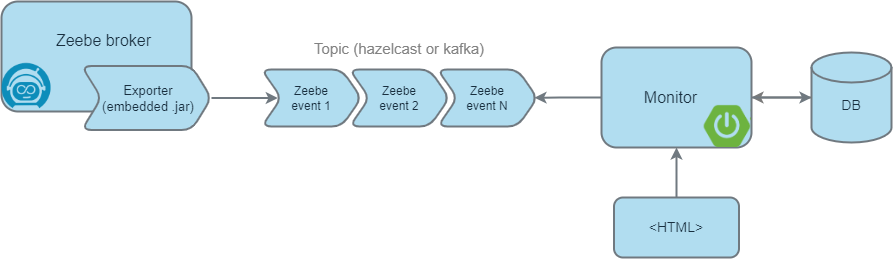
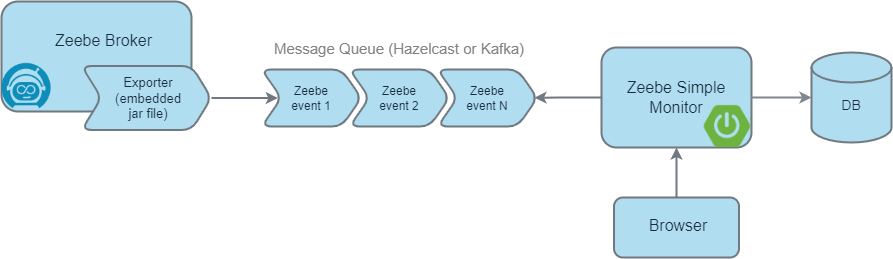
feat: add kafka importer as option (add profiles for kafka and hazelcast, fix schema)

diff --git a/README.md b/README.md
@@ -67,16 +67,28 @@ docker run --network="host" ghcr.io/camunda-community-hub/zeebe-simple-monitor:2
 ```
 
 For a local setup, the repository contains a [docker-compose file](docker/docker-compose.yml). It starts a Zeebe broker with the Hazelcast/Kafka exporter and the application. 
+There are several Docker Compose profiles, setting by a file [.env](docker/.env), by passing multiple --profile flags or a comma-separated list for the COMPOSE_PROFILES environment variable:
+* ```docker compose --profile hazelcast --profile hazelcast_in_memory up```
+* ```COMPOSE_PROFILES=hazelcast,hazelcast_in_memory docker compose up```
 
+Existing presets:
+* ```COMPOSE_PROFILES=hazelcast,hazelcast_in_memory``` (by default)
+* ```COMPOSE_PROFILES=kafka,kafka_in_memory```
+* ```COMPOSE_PROFILES=hazelcast,hazelcast_postgres,postgres```
+* ```COMPOSE_PROFILES=hazelcast,hazelcast_mysql,mysql```
+
+The commands to build and run:
 ```
 mvn clean install -DskipTests
 cd docker
-docker-compose --profile in-memory up
+docker-compose up
 ```
 
 Go to http://localhost:8082
 
-To use PostgreSQL instead of the in-memory database, use the profile `postgres`. 
+To change the database see "[Change the Database](#change-the-database)"
+
+To change Zeebe importer see "[Change the default Zeebe importer to Kafka](#change-the-default-zeebe-importer-to-kafka)"
 
 ```
 docker-compose --profile postgres up
@@ -214,7 +226,7 @@ For example, using PostgreSQL:
 
 * the PostgreSQL database driver is already bundled 
 
-See the [docker-compose file](docker/docker-compose.yml) (profile: `postgres`) for a sample configuration with PostgreSQL. 
+See the [docker-compose file](docker/docker-compose.yml) for a sample configuration with PostgreSQL. Profiles presets: `hazelcast,hazelcast_postgres,postgres`
 
 The configuration for using MySql is similar but with an additional setting for the Hibernate naming strategy:
 
@@ -229,7 +241,7 @@ The configuration for using MySql is similar but with an additional setting for 
 
 * the MySql database driver is already bundled
 
-See the [docker-compose file](docker/docker-compose.yml) (profile: `mysql`) for a sample configuration with MySql.
+See the [docker-compose file](docker/docker-compose.yml) for a sample configuration with MySql. Profiles presets: `hazelcast,hazelcast_mysql,mysql`
 
 #### Change the default Zeebe importer to Kafka
 
@@ -240,7 +252,7 @@ See the [docker-compose file](docker/docker-compose.yml) (profile: `mysql`) for 
   * `spring.kafka.custom.concurrency` (default: `3`) is the number of threads for the Kafka listener that will import events from Zeebe
   * `spring.kafka.custom.retry.intervalMs` (default: `30000`)  and `spring.kafka.custom.retry.max-attempts` (default: `3`) are the retry configurations for a retryable exception in the listener
 
-Refer to the [docker-compose file](docker/docker-compose.yml) (service: `simple-monitor-in-memory-kafka`) for a sample configuration with the Kafka importer.
+Refer to the [docker-compose file](docker/docker-compose.yml) for a sample configuration with the Kafka importer. Profiles presets: `kafka,kafka_in_memory`
 
 ## Code of Conduct
 

diff --git a/CONTRIBUTING.md b/CONTRIBUTING.md
@@ -84,9 +84,14 @@ Available commit types:
 
 ### Zeebe cluster backend for local development
 
-There's a file ```docker/docker-compose.yml``` prepared in this repo, which can be used with recent Docker version to
-provide a backend. You just need to alter this file and comment out the ```monitor``` service. What remains is
-the ```zeebe``` service, which then can be started via ```docker compose up``` command.
+There's a file [docker-compose.yml](docker/docker-compose.yml) prepared in this repo, which can be used with recent Docker version to
+provide a backend. You just need to choose some profiles and specify them in a file [.env](docker/.env) using pattern `COMPOSE_PROFILES=profile1,profile2`:
+* ```hazelcast``` runs Zeebe broker with Hazelcast exporter 
+* ```kafka``` runs Zeebe broker with Kafka exporter 
+* ```postgres``` runs PostgreSQL database
+* ```mysql``` runs MySQL database
+
+Then run ```docker compose up``` command.
 
 With such a backend running, you can simply start debugging the ```ZeebeSimpleMonitorApp``` class in your IDE of choice.
 
